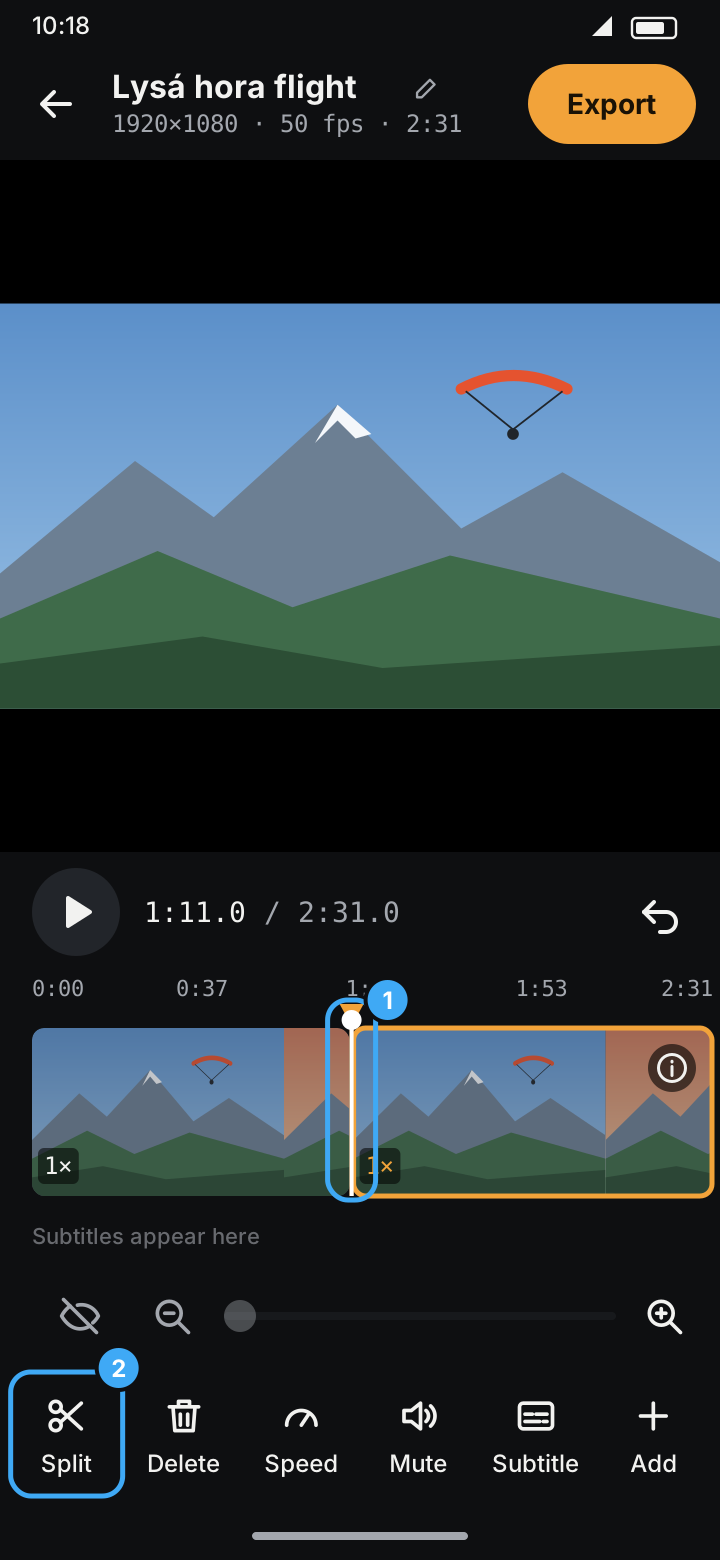
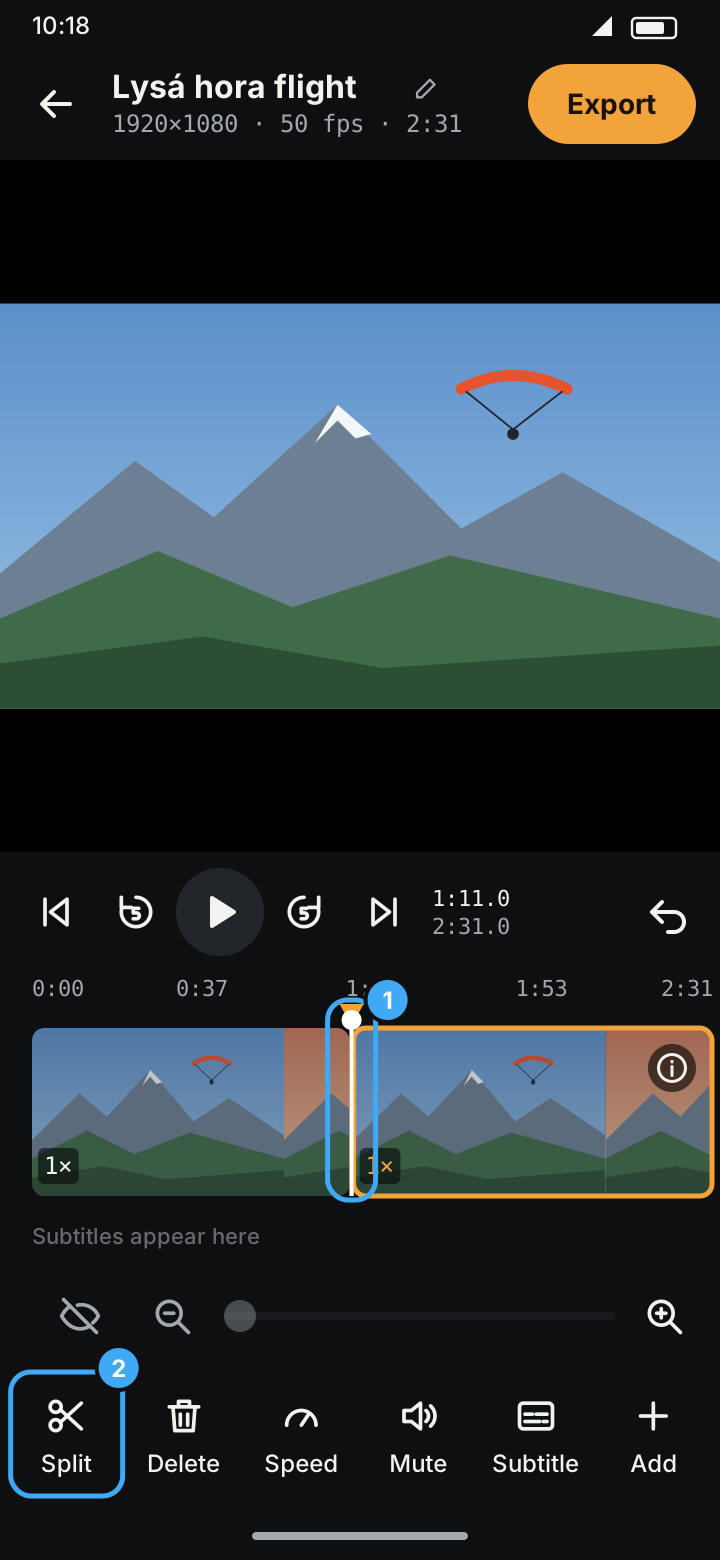
Docs: jump buttons next to Play, smaller times (release 2026-10-19.2)
Claude-Session: https://claude.ai/code/session_0131DFGbw4cxYxg9XoJhwMHA

diff --git a/_tools/screens.py b/_tools/screens.py
@@ -69,6 +69,10 @@ def icon(name, x, y, size=22, color=TEXT):
         "volume": '<path d="M4 9v6h4l5 4V5L8 9z"/><path d="M16 9a4 4 0 0 1 0 6M18.5 6.5a7.5 7.5 0 0 1 0 11"/>',
         "volume_off": '<path d="M4 9v6h4l5 4V5L8 9z"/><path d="M17 9l5 6M22 9l-5 6"/>',
         "image": '<rect x="3" y="4" width="18" height="16" rx="2"/><circle cx="8.5" cy="9.5" r="1.8"/><path d="m4 18 5-6 4 4 3-3 4 5"/>',
+        "skip_prev": '<path d="M6 5v14"/><path d="M18 5 9 12l9 7z"/>',
+        "skip_next": '<path d="M18 5v14"/><path d="M6 5l9 7-9 7z"/>',
+        "replay5": '<path d="M12 4a8 8 0 1 1-7.6 5.5"/><path d="M4 4v5.5h5.5"/><path d="M10.5 10h3M10.5 10v2.5h1.7a1.6 1.6 0 1 1 0 3.2h-1.7"/>',
+        "forward5": '<path d="M12 4a8 8 0 1 0 7.6 5.5"/><path d="M20 4v5.5h-5.5"/><path d="M10.5 10h3M10.5 10v2.5h1.7a1.6 1.6 0 1 1 0 3.2h-1.7"/>',
         "music": '<path d="M9 18V6l11-2v12"/><circle cx="6.5" cy="18" r="2.5"/><circle cx="17.5" cy="16" r="2.5"/>',
     }[name]
     return g + p + "</g>"
@@ -235,9 +239,12 @@ def editor(segs=DEFAULT_SEGS, playhead=0.47, subs=((0.08, 0.30, "Take-off from L
             s += t(W / 2, vy + vh - 22, subtitle_on_preview, 15, "#fff", 400, "middle")
     # controls
     cy = pv_top + pv_h
-    s += f'<circle cx="38" cy="{cy+30}" r="22" fill="{SURF_HI}"/>' + icon("pause" if playing else "play", 38, cy + 30, 24, TEXT)
-    s += t(72, cy + 35, time, 14, TEXT, 400, mono=True) + t(132, cy + 35, "/ " + total, 14, MUTED, 400, mono=True)
-    s += icon("undo", 330, cy + 30, 24, TEXT)
+    # Transport: to start, −5 s, play/pause, +5 s, to end; then the times, small, on two lines.
+    s += icon("skip_prev", 28, cy + 30, 22, TEXT) + icon("replay5", 68, cy + 30, 22, TEXT)
+    s += f'<circle cx="110" cy="{cy+30}" r="22" fill="{SURF_HI}"/>' + icon("pause" if playing else "play", 110, cy + 30, 24, TEXT)
+    s += icon("forward5", 152, cy + 30, 22, TEXT) + icon("skip_next", 192, cy + 30, 22, TEXT)
+    s += t(216, cy + 27, time, 11, TEXT, 400, mono=True) + t(216, cy + 41, total, 11, MUTED, 400, mono=True)
+    s += icon("undo", 334, cy + 30, 24, TEXT)
     # timeline
     tl_x, tl_w = 16, 340
     ly = cy + 60 + 12
@@ -509,7 +516,7 @@ def settings_sheet():
         s += rect(104, y + 40, 58, 32, ACCENT, 8) + t(133, y + 61, "Pro", 14, ON_ACCENT, 600, "middle")
         s += t(34, y + 92, "Only in test builds. A Play Store release takes", 12, MUTED)
         s += t(34, y + 108, "the edition from the license.", 12, MUTED)
-        s += t(20, y + 152, "mobiCut 2026-10-19.1", 12, MUTED)
+        s += t(20, y + 152, "mobiCut 2026-10-19.2", 12, MUTED)
         return s
     return home() + sheet(320, c)
 
@@ -602,7 +609,7 @@ SCREENS = {
     "delete-project": delete_project_dialog,
     "editor": lambda: editor()
               + callout(1, 150, 92, ring=(48, 32, 200, 40)) + callout(2, 306, 92, ring=(262, 30, 88, 44))
-              + callout(3, 300, 136) + callout(4, 38, 470, ring=(12, 430, 52, 52)) + callout(5, 330, 470, ring=(306, 432, 48, 48))
+              + callout(3, 300, 136) + callout(4, 12, 434, ring=(8, 432, 266, 52)) + callout(5, 312, 434, ring=(310, 432, 48, 48))
               + callout(6, 14, TL_TRACK_TOP + 40, ring=(12, TL_TRACK_TOP - 16, 348, 102))
               + callout(7, 14, TL_TRACK_TOP + 104, ring=(12, TL_TRACK_TOP + 89, 348, 30))
               + callout(8, 14, TL_TRACK_TOP + 144, ring=(12, TL_TRACK_TOP + 125, 348, 38))

diff --git a/operations/editor.md b/operations/editor.md
@@ -19,8 +19,23 @@ nav_order: 2
 Tap **▶** under the preview. Playback already follows your edits: deleted segments are skipped,
 sped-up segments play fast, subtitles appear, and fades dim the picture.
 
-The time shown is the position in the **finished video** and its total length
-(for example `0:21.4 / 0:48.0`). It changes as you delete and speed up segments.
+The two small times next to the buttons are the position in the **finished video** (top) and
+its total length (bottom), for example `0:21.4` over `0:48.0`. They change as you delete and speed
+up segments.
+
+## Jump
+
+The buttons around **▶** jump the playhead, also while playing:
+
+| Button | Jumps |
+|---|---|
+| **⏮** | To the beginning of the finished video (its first kept frame) |
+| **↺ 5** | 5 seconds back |
+| **↻ 5** | 5 seconds forward |
+| **⏭** | To the end (playback stops there) |
+
+The 5 seconds are 5 seconds of the **finished** video: deleted parts are skipped, and over a
+4× segment a jump moves 20 seconds through the original.
 
 ## Move around the video
 

diff --git a/operations/index.md b/operations/index.md
@@ -18,7 +18,9 @@ then **The editor** for a tour of the screen.
 2. **Export**: build the finished video. See [Export]({{ "/operations/export/" | relative_url }}).
 3. **Preview.** Shows the video as it will look: deleted parts are skipped, speed and subtitles
    are applied. A badge in the corner shows the speed of the selected segment.
-4. **Play / pause.** The time next to it is the time in the *finished* video, not in the original.
+4. **Play / pause**, with **to the beginning**, **back 5 s**, **forward 5 s** and **to the end** around it.
+   The small times next to them are the position (top) and the length (bottom) of the *finished*
+   video, not of the original.
 5. **Undo** the last change.
 6. **Timeline.** Each block is a segment; orange markers are splits; the white line is the
    playhead. See [The editor]({{ "/operations/editor/" | relative_url }}).
